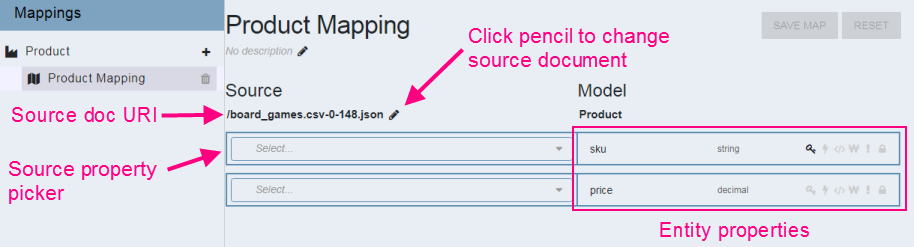
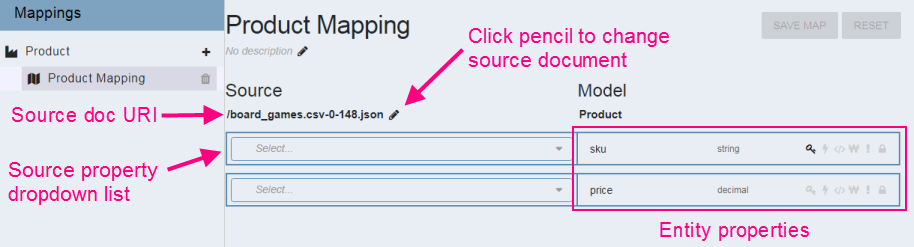
DHFPROD-1080 Incorporate Mike's feedback and corrections on M2M mapping.

Changed region(s): [[0.0, 0.6518, 0.1838, 0.7368], [0.0, 0.7652, 0.1532, 0.8219]]

diff --git a/_pages/tutorial/3x/harmonizing-order-data.md b/_pages/tutorial/3x/harmonizing-order-data.md
@@ -7,7 +7,7 @@ permalink: /tutorial/harmonizing-order-data/
 
 Now that we have modeled the Order entity we can use the Data Hub Framework's code scaffolding to generate harmonization code and then customize it for our application.
 
-Recall that you can either generate customized harmonization code based on a model to model mapping, as we did with Product, or you can generate default harmonization code and customize it. In this exercise, we will generate and customize the default code since the **price** property of an Order is a computed value.
+Recall that you can either generate customized harmonization code based on a model-to-model mapping, as we did with Product, or you can generate default harmonization code and customize it. In this exercise, we will generate and customize the default code since the **price** property of an Order is a computed value.
 
 ## Create the Order Harmonize Flow
 
@@ -57,7 +57,7 @@ When you create a flow, the Data Hub Framework generates harmonize code to be ru
 
 Click the **COLLECTOR** tab to view the collector plugin code. We will discuss the cusotmizations and then apply them.
 
-The Data Hub Framework calls the `collect` function to "collect" a list of ids for the flow to operate on. By default, this function generates a list of source document URIS. The ids can be anything: URIs, relational row ids, twitter handles - whatever suits the needs of your application.
+The Data Hub Framework calls the `collect` function to "collect" a list of ids for the flow to operate on. By default, this function generates a list of source document URIs. The ids can be anything: URIs, relational row ids, twitter handles - whatever suits the needs of your application.
 
 The `options` parameter passed into the collector plugin contains the following properties by default:
 

diff --git a/_pages/tutorial/3x/harmonizing-product-data.md b/_pages/tutorial/3x/harmonizing-product-data.md
@@ -5,7 +5,7 @@ lead_text: ''
 permalink: /tutorial/harmonizing-product-data/
 ---
 
-Now that we have modeled Product and defined a model-to-model mapping for it, we can use the Data Hub Framework to harmonize our source data with our entity model. Harmonization creates canonical entity instances containing the necessary parts of your source data.
+Now that we have modeled the Product entity type and defined a model-to-model mapping for it, we can use the Data Hub Framework to harmonize our source data with our entity model. Harmonization creates canonical entity instances containing the necessary parts of your source data.
 
 Recall from earlier that the Data Hub Framework can use the Entity Services model definition and a mapping to generate harmonization code. In this exercise, we will do the following:
 
@@ -28,7 +28,7 @@ Use the following procedure to create a Product harmonize flow:
 The following picture summarizes the steps for creating the Harmonize Products flow:
 ![Create Product Harmonize Flow]({{site.baseurl}}/images/3x/harmonizing-product-data/create-product-harmonize-flow.png)
 
-When you create the flow, QuickStart generates harmonization code based on the Product model and the **ProductMapping** model-to-model mapping and deploys the code to MarkLogic.
+When you create the flow, QuickStart generates harmonization code based on the Product entity model and the **ProductMapping** model-to-model mapping, and then deploys the code to MarkLogic.
 
 Though you can customize the harmonization code, it is not necessary. The mapping expressed everything needed to create Product entities. For example, the mapping caused the generated code to include the following assignments for initializing a Product instance:
 ```

diff --git a/_pages/tutorial/3x/mapping-product-entity.md b/_pages/tutorial/3x/mapping-product-entity.md
@@ -42,7 +42,9 @@ The following picture summarizes the steps for creating a mapping:
 
 The mapping editor displays a row for each property in your entity model. The right column in each row is the name of an entity property. The left column in each row is a dropdown list from which you can select the source property to map on to the entity property in the right column.
 
-QuickStart generates the list of source property names by examining one of your source documents in the STAGE database. You can view the name of the selected document at the to of the **Source** column of the mapping editor. You can enter the name of a different document by clicking on the pencil icon next to the source URI.
+QuickStart generates the list of source property names by examining one of your source documents in the STAGE database. You can view the URI of the selected document at the top of the **Source** column of the mapping editor.
+
+You change the source document by clicking on the pencil icon next to the source URI. To find an alternative document URI, use the **Browse Data** view to review the documents in the "Product" collection in the **STAGING** database.
 
 The following diagram illustrates key parts of the mapping editor:
 
